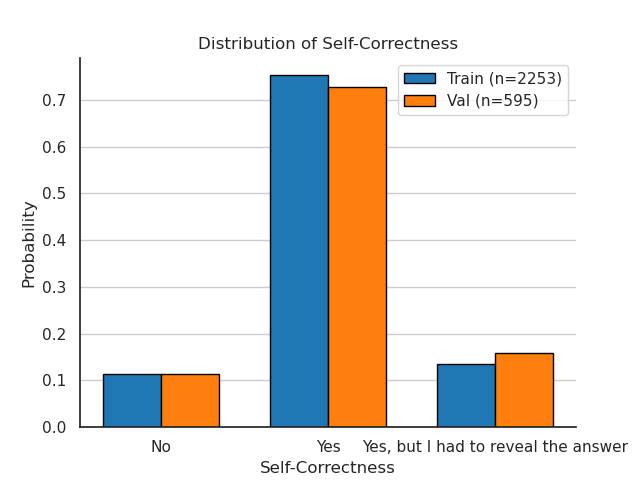
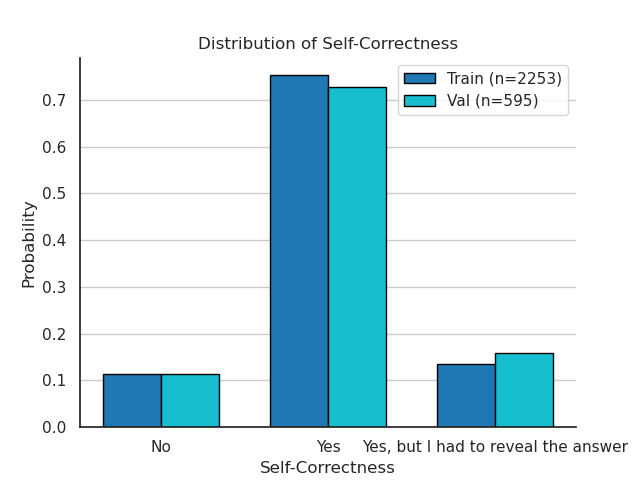
updated plots

Changed region(s): [[0.5, 0.1562, 0.6875, 0.9062], [0.75, 0.7188, 0.875, 0.9062], [0.25, 0.7812, 0.3438, 0.9062]]

diff --git a/analyses/plot_data_distributions.py b/analyses/plot_data_distributions.py
@@ -35,15 +35,15 @@ def parse_conversation_length(conversation_str):
 def main():
     plot_dimension = sys.argv[1]
 
-    if plot_dimension not in ['self-typical-confusion', 'self-typical-interactions', 'self-correctness', 'conversation-length']:
-        print("Invalid plot dimension. Please choose 'self-typical-confusion', 'self-typical-interactions', 'self-correctness', or 'conversation-length'.")
+    if plot_dimension not in ['self-typical-confusion', 'self-typical-interactions', 'self-correctness', 'conversation-length', 'combined-self-typical']:
+        print("Invalid plot dimension. Please choose 'self-typical-confusion', 'self-typical-interactions', 'self-correctness', 'conversation-length', or 'combined-self-typical'.")
         return
 
     with open('../data/train.jsonl', 'r') as f:
         train_data = [json.loads(line) for line in f]
-        if plot_dimension == 'self-typical-confusion':
+        if plot_dimension in ('self-typical-confusion', 'combined-self-typical'):
             confusion_train_data = [example['self-typical-confusion'] for example in train_data if 'self-typical-confusion' in example and example['self-typical-confusion'] is not None]
-        elif plot_dimension == 'self-typical-interactions':
+        if plot_dimension in ('self-typical-interactions', 'combined-self-typical'):
             typical_train_data = [example['self-typical-interactions'] for example in train_data if 'self-typical-interactions' in example and example['self-typical-interactions'] is not None]
         elif plot_dimension == 'self-correctness':
             correctness_train_data = [example['self-correctness'] for example in train_data if 'self-correctness' in example and example['self-correctness'] is not None]
@@ -52,9 +52,9 @@ def main():
 
     with open('../data/test.jsonl', 'r') as f:
         test_data = [json.loads(line) for line in f]
-        if plot_dimension == 'self-typical-confusion':
+        if plot_dimension in ('self-typical-confusion', 'combined-self-typical'):
             confusion_test_data = [example['self-typical-confusion'] for example in test_data if 'self-typical-confusion' in example and example['self-typical-confusion'] is not None]
-        elif plot_dimension == 'self-typical-interactions':
+        if plot_dimension in ('self-typical-interactions', 'combined-self-typical'):
             typical_test_data = [example['self-typical-interactions'] for example in test_data if 'self-typical-interactions' in example and example['self-typical-interactions'] is not None]
         elif plot_dimension == 'self-correctness':
             correctness_test_data = [example['self-correctness'] for example in test_data if 'self-correctness' in example and example['self-correctness'] is not None]
@@ -62,11 +62,6 @@ def main():
             conversation_length_test_data = [parse_conversation_length(example['conversation']) for example in test_data if 'conversation' in example and example['conversation'] is not None]
 
     if plot_dimension == 'self-typical-confusion':
-        df = pd.DataFrame({
-            'Self-Typical Confusion Score': np.concatenate([confusion_train_data, confusion_test_data]),
-            'Dataset': ['Train'] * len(confusion_train_data) + ['Val'] * len(confusion_test_data)
-        })
-
         bin_edges = np.arange(0.5, 6, 1)
         # Compute normalized histograms for each dataset
         train_counts, _ = np.histogram(confusion_train_data, bins=bin_edges)
@@ -77,8 +72,9 @@ def main():
         # Plot as bar chart for probability distributions
         width = 0.35
         x = np.arange(1, 6)
-        plt.bar(x - width/2, train_probs, width, label=f'Train (n={len(confusion_train_data)})', color='tab:blue', edgecolor='black')
-        plt.bar(x + width/2, test_probs, width, label=f'Val (n={len(confusion_test_data)})', color='tab:orange', edgecolor='black')
+        colors = plt.cm.tab10(np.linspace(0, 0.9, 2))
+        plt.bar(x - width/2, train_probs, width, label=f'Train (n={len(confusion_train_data)})', color=colors[0], edgecolor='black')
+        plt.bar(x + width/2, test_probs, width, label=f'Val (n={len(confusion_test_data)})', color=colors[1], edgecolor='black')
         plt.xlabel('Self-Typical Confusion Score')
         plt.ylabel('Probability')
         plt.xticks([1, 2, 3, 4, 5])
@@ -93,12 +89,67 @@ def main():
         ax.spines['bottom'].set_visible(True)
         plt.savefig('plots/dataset_stats/self_typical_confusion_distribution.png')
     # plt.show()
+    elif plot_dimension == 'combined-self-typical':
+        # Combined plot: Confusion (blues) and Interactions (greens), Train vs Val
+        bin_edges = np.arange(0.5, 6, 1)
+        x = np.arange(1, 6)
+ 
+        # Compute normalized histograms
+        conf_train_counts, _ = np.histogram(confusion_train_data, bins=bin_edges)
+        conf_test_counts, _  = np.histogram(confusion_test_data,  bins=bin_edges)
+        conf_train_probs = conf_train_counts / conf_train_counts.sum()
+        conf_test_probs  = conf_test_counts  / conf_test_counts.sum()
+ 
+        int_train_counts, _ = np.histogram(typical_train_data, bins=bin_edges)
+        int_test_counts, _  = np.histogram(typical_test_data,  bins=bin_edges)
+        int_train_probs = int_train_counts / int_train_counts.sum()
+        int_test_probs  = int_test_counts  / int_test_counts.sum()
+ 
+        # Four groups per x-tick: conf_train | conf_val | int_train | int_val
+        width = 0.2
+        offsets = [-1.5, -0.5, 0.5, 1.5]
+ 
+        colors = plt.cm.tab10(np.linspace(0, 0.9, 10))  # expand to 10 to access all tab10 colors
+        blue  = colors[0]  # same blue as your other plots
+        green = colors[2]  # tab10 green, similar style
+
+        # Then use alpha to distinguish Train vs Val:
+        blue_dark=(*blue[:3],  1.0)   # Confusion Train    – full blue
+        blue_light=(*blue[:3],  0.45)  # Confusion Val      – faded blue
+        green_dark=(*green[:3], 1.0)   # Interactions Train – full green
+        green_light=(*green[:3], 0.45)  # Interactions Val   – faded green
+ 
+        fig, ax = plt.subplots(figsize=(10, 6))
+ 
+        ax.bar(x + offsets[0] * width, conf_train_probs, width,
+               label=f'Confusion – Train (n={len(confusion_train_data)})',
+               color=blue_dark,  edgecolor='white', linewidth=0.6)
+        ax.bar(x + offsets[1] * width, conf_test_probs,  width,
+               label=f'Confusion – Val (n={len(confusion_test_data)})',
+               color=blue_light, edgecolor='white', linewidth=0.6)
+        ax.bar(x + offsets[2] * width, int_train_probs,  width,
+               label=f'Interactions – Train (n={len(typical_train_data)})',
+               color=green_dark,  edgecolor='white', linewidth=0.6)
+        ax.bar(x + offsets[3] * width, int_test_probs,   width,
+               label=f'Interactions – Val (n={len(typical_test_data)})',
+               color=green_light, edgecolor='white', linewidth=0.6)
+ 
+        ax.set_xlabel('Score', fontsize=16, fontweight='bold')
+        ax.set_ylabel('Probability', fontsize=16, fontweight='bold')
+        ax.set_title('Distribution of Self-Typical Confusion & Interaction Scores',
+                     fontsize=16, fontweight='bold', pad=12)
+        ax.set_xticks(x)
+        ax.set_xticklabels([1, 2, 3, 4, 5], fontsize=14)
+        ax.tick_params(axis='y', labelsize=14)
+        ax.legend(fontsize=14, framealpha=0.9)
+        ax.grid(axis='y', alpha=0.4, linestyle='--')
+        ax.spines['top'].set_visible(False)
+        ax.spines['right'].set_visible(False)
+ 
+        plt.tight_layout()
+        plt.savefig('plots/dataset_stats/combined_self_typical_distribution.png', dpi=150)
     elif plot_dimension == 'self-typical-interactions':
         bin_edges = np.arange(0.5, 6, 1)
-        df = pd.DataFrame({
-            'Self-Typical Interaction score': np.concatenate([typical_train_data, typical_test_data]),
-            'Dataset': ['Train'] * len(typical_train_data) + ['Val'] * len(typical_test_data)
-        })
 
         # Compute normalized histograms for each dataset
         train_counts, _ = np.histogram(typical_train_data, bins=bin_edges)
@@ -109,8 +160,9 @@ def main():
         # Plot as bar chart for probability distributions
         width = 0.35
         x = np.arange(1, 6)
-        plt.bar(x - width/2, train_probs, width, label=f'Train (n={len(typical_train_data)})', color='tab:blue', edgecolor='black')
-        plt.bar(x + width/2, test_probs, width, label=f'Val (n={len(typical_test_data)})', color='tab:orange', edgecolor='black')
+        colors = plt.cm.tab10(np.linspace(0, 0.9, 2))
+        plt.bar(x - width/2, train_probs, width, label=f'Train (n={len(typical_train_data)})', color=colors[0], edgecolor='black')
+        plt.bar(x + width/2, test_probs, width, label=f'Val (n={len(typical_test_data)})', color=colors[1], edgecolor='black')
         plt.xlabel('Self-Typical Interaction score')
         plt.ylabel('Probability')
         plt.xticks([1, 2, 3, 4, 5])
@@ -133,8 +185,9 @@ def main():
         test_probs = test_counts.reindex(categories, fill_value=0) / test_counts.sum()
         width = 0.35
         x = np.arange(len(categories))
-        plt.bar(x - width/2, train_probs, width, label=f'Train (n={len(correctness_train_data)})', color='tab:blue', edgecolor='black')
-        plt.bar(x + width/2, test_probs, width, label=f'Val (n={len(correctness_test_data)})', color='tab:orange', edgecolor='black')
+        colors = plt.cm.tab10(np.linspace(0, 0.9, 2))
+        plt.bar(x - width/2, train_probs, width, label=f'Train (n={len(correctness_train_data)})', color=colors[0], edgecolor='black')
+        plt.bar(x + width/2, test_probs, width, label=f'Val (n={len(correctness_test_data)})', color=colors[1], edgecolor='black')
         plt.xlabel('Self-Correctness')
         plt.ylabel('Probability')
         plt.xticks(x, categories)
